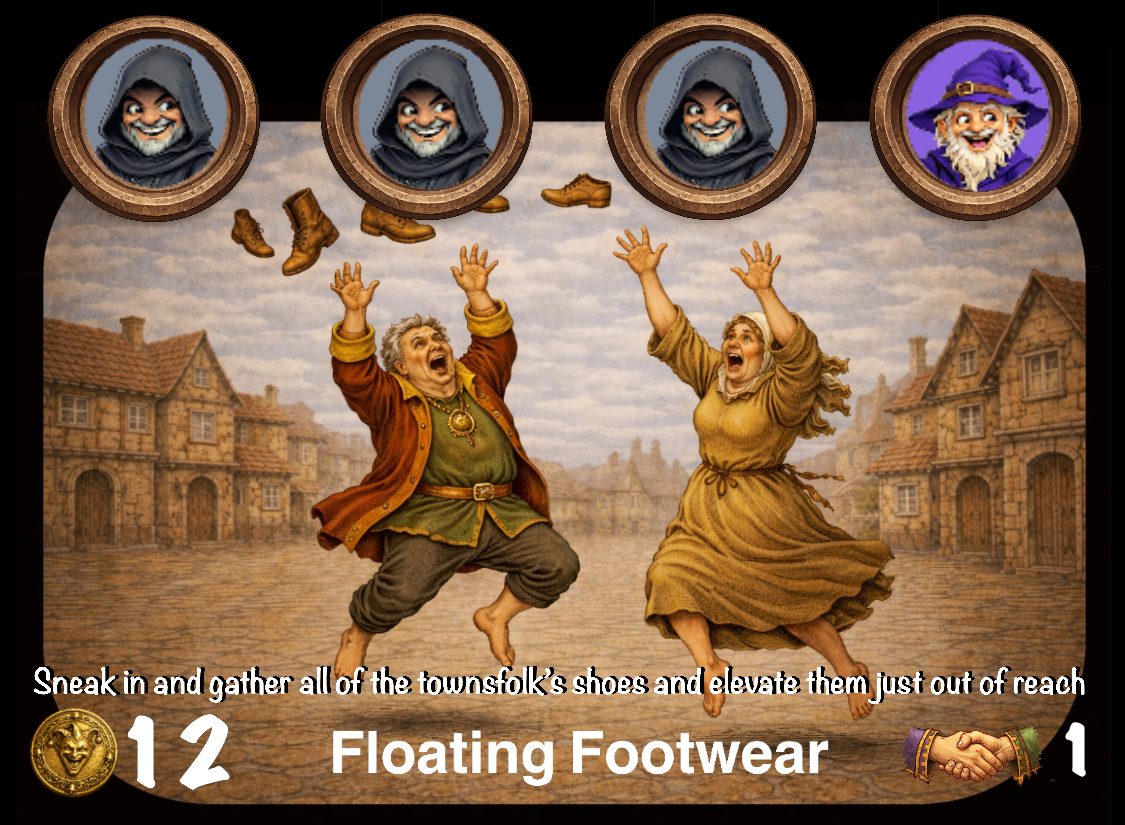
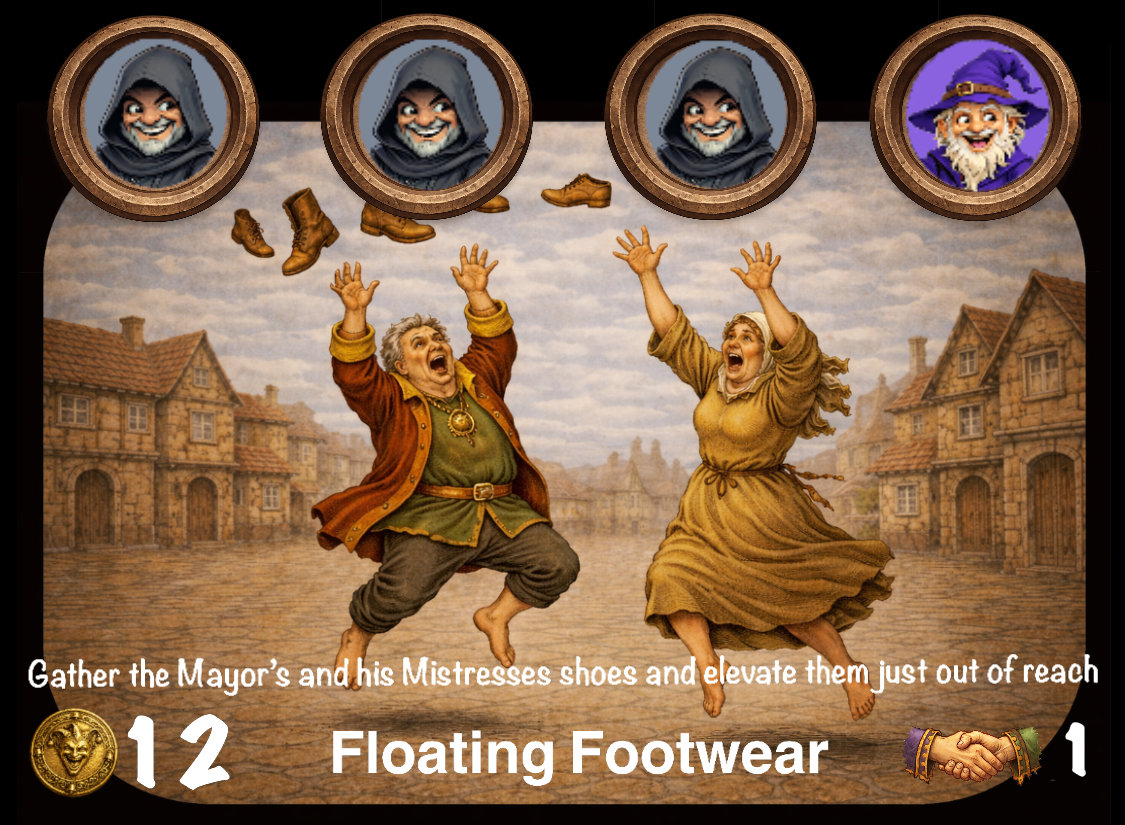
Updated Prank Art, Rules text, and Favor Hover
Updated Prank Art to crisper versions for some and black background behind white typeface
Updated 2 pranks cards favor multiplier from 1 to 2
Updated rues text to include player actions (when available)
Updated Favor hover to preview when favor area is full

Changed region(s): [[0.0311, 0.7879, 0.9956, 0.8485]]

diff --git a/Assets/Scripts/FavorSlotHoverTrigger.cs b/Assets/Scripts/FavorSlotHoverTrigger.cs
@@ -22,30 +22,32 @@ public class FavorSlotHoverTrigger : MonoBehaviour
     }
 
     void OnMouseEnter()
-{
-    Debug.Log("FAVOR SLOT HOVER ENTER | slot=" + favorSlotIndex);
+    {
+        Debug.Log("FAVOR SLOT HOVER ENTER | slot=" + favorSlotIndex);
 
-    if (favorAreaHover == null || favorAreaHover.deckManager == null)
-        return;
+        if (favorAreaHover == null || favorAreaHover.deckManager == null)
+            return;
 
-    if (favorAreaHover.deckManager.IsInteractionBlocked())
-        return;
+        if (favorAreaHover.deckManager.IsInteractionBlocked())
+            return;
 
-    if (!favorAreaHover.deckManager.CanHoverFavorArea())
-        return;
+        PranksterDeckEntry card = favorAreaHover.deckManager.GetFavorCardAtIndex(favorSlotIndex);
 
-    isHovering = true;
-    hoverTimer = 0f;
-    previewVisible = false;
+        if (card == null)
+            return;
 
-    if (preview != null)
-        preview.Hide();
+        isHovering = true;
+        hoverTimer = 0f;
+        previewVisible = false;
 
-    if (favorAreaHover.helperObject != null)
-        favorAreaHover.helperObject.SetActive(true);
+        if (preview != null)
+            preview.Hide();
 
-    if (AudioManager.Instance != null)
-        AudioManager.Instance.PlayFavorHover();
+        if (favorAreaHover.helperObject != null)
+            favorAreaHover.helperObject.SetActive(true);
+
+        if (AudioManager.Instance != null)
+            AudioManager.Instance.PlayFavorHover();
 }
 
     void OnMouseExit()

diff --git a/Assets/Scripts/SaveSystem.cs b/Assets/Scripts/SaveSystem.cs
@@ -738,7 +738,7 @@ public static List<PranksterUnlockEntry> EvaluateFavorUnlocks(PlayerProgressSave
             highestTier = 3;
         else if (discardTotal >= 40)
             highestTier = 2;
-        else if (discardTotal >= 15)
+        else if (discardTotal >= 20)
             highestTier = 1;
 
         if (highestTier == 0)
